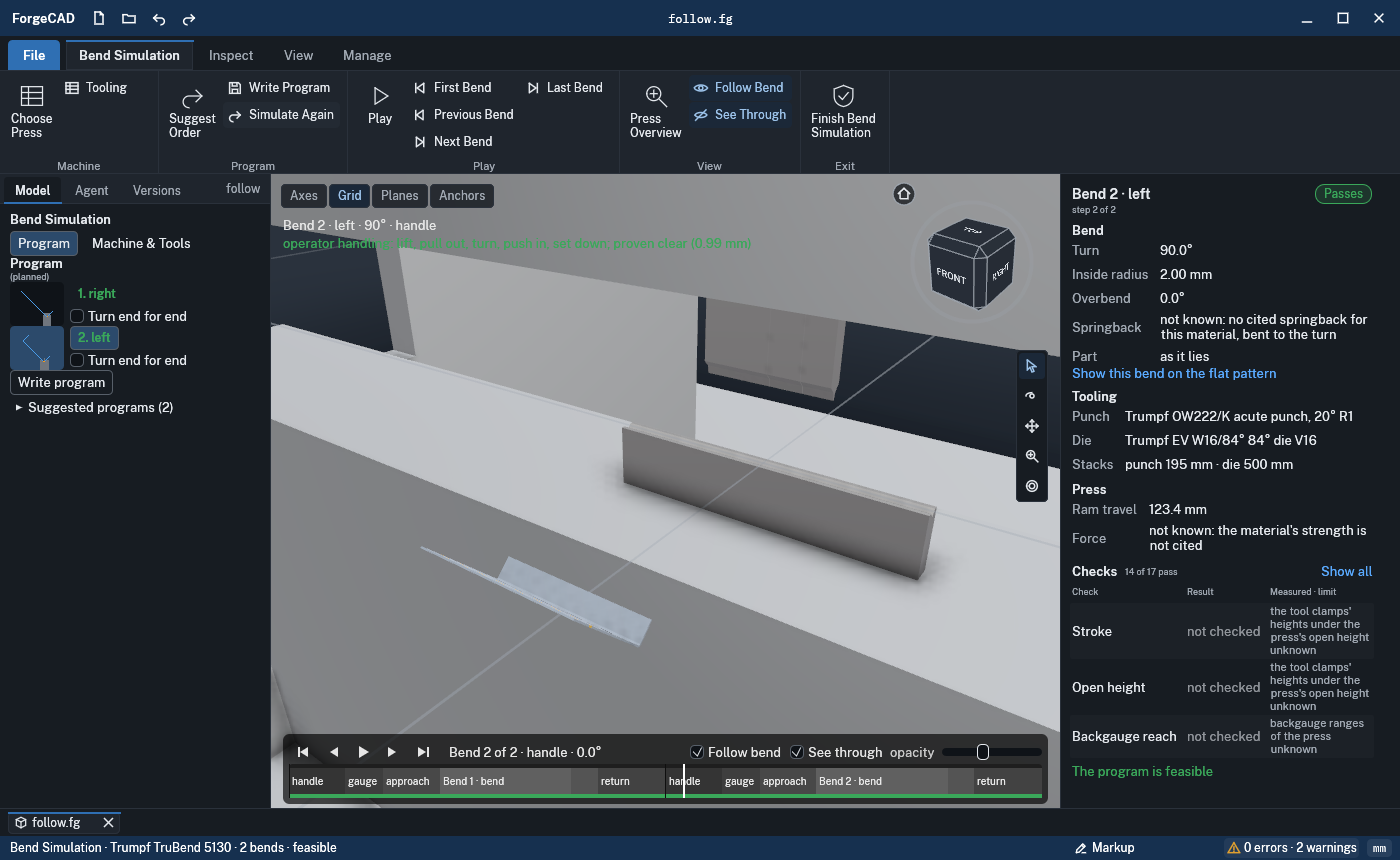
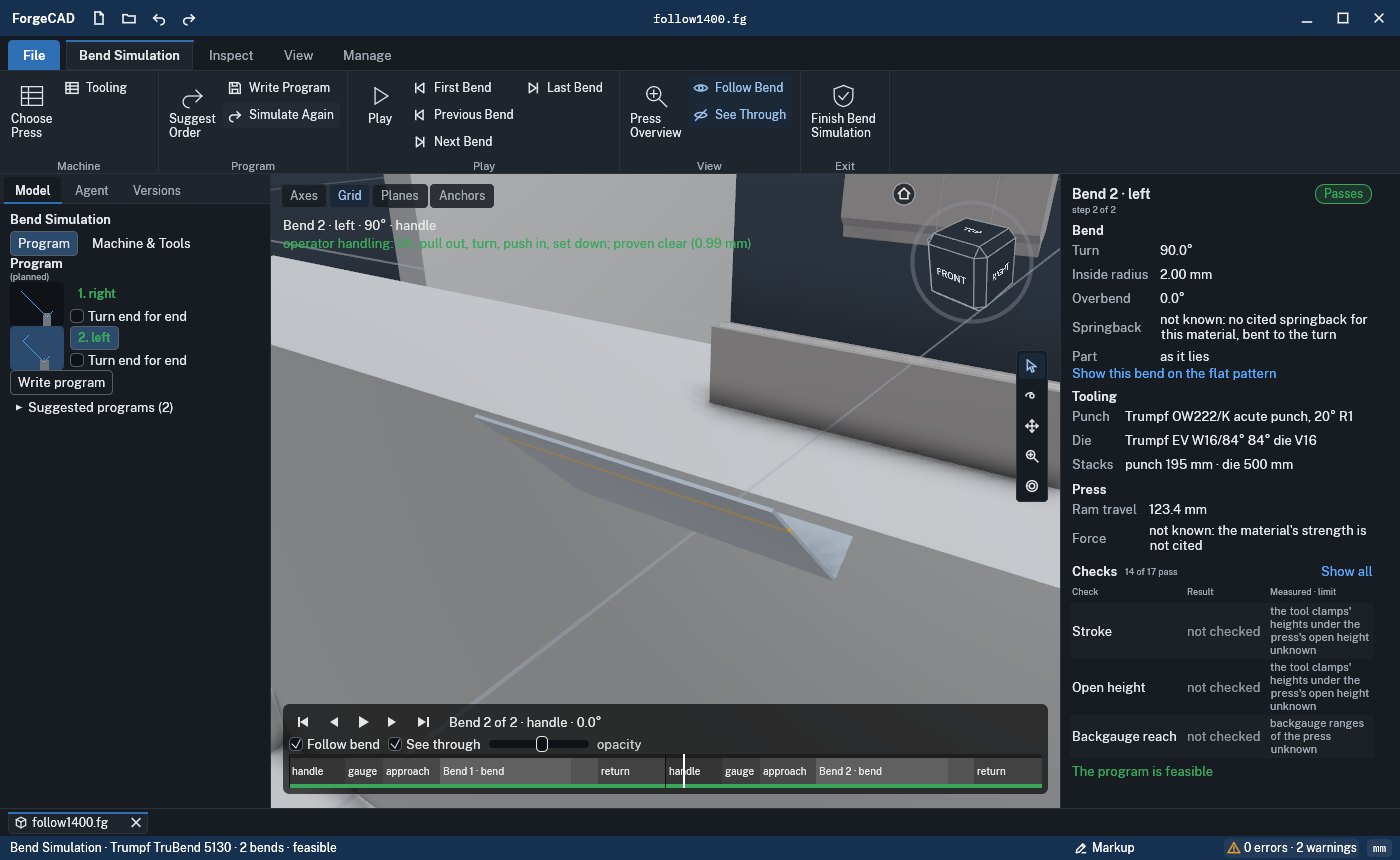
bendsim Follow through the handling frames the part (RENDER-STUDIO, the coordinator: the bed's near edge, not the part, filled the picture): the part where it is, alone, at about 70 % of the view, the eye rising from the working zone's until its lines to the part pass no press part or tool; as the h
Claude-Session: https://claude.ai/code/session_01WJtawvw7eU93rVnY2Eejbc

Changed region(s): [[0.1536, 0.1814, 0.7679, 0.9372], [0.0307, 0.9372, 0.1229, 0.9674], [0.4607, 0.0, 0.5221, 0.0302]]

diff --git a/interface/forge-render/src/gui_bendsim.rs b/interface/forge-render/src/gui_bendsim.rs
@@ -30,6 +30,9 @@ pub struct BendView {
     ours: Option<u64>,
     /// The camera framed on the press once per entry.
     framed: bool,
+    /// Follow was on the part through the operator's handling at the last instant shown: as it
+    /// ends, the eye goes back to the working zone.
+    handled: bool,
     /// The working station's place along the bed when framed: the part moved to another
     /// station, the eye follows it there.
     station: Option<u64>,
@@ -227,6 +230,7 @@ pub fn framing(
     bodies: &[Body],
     envelope: Option<([f32; 3], [f32; 3])>,
     how: Framing,
+    handling: bool,
     size: (u32, u32),
 ) -> Option<(crate::camera::Camera, [f32; 3], [f32; 3])> {
     let (mut lo, mut hi) = match envelope {
@@ -243,6 +247,8 @@ pub fn framing(
     match how {
         // the working zone is the part's, scaled to it (David): the punch's tip and the die's V
         // where they meet it, never the tools' height or the press
+        // through the operator's handling the part is the subject alone: away from the tools
+        Framing::Work if handling => {}
         Framing::Work => {
             let tip = bodies
                 .iter()
@@ -292,12 +298,35 @@ pub fn framing(
     };
     cam.yaw = yaw.to_radians();
     cam.pitch = pitch.to_radians();
-    // the subject's sphere fits the view with a margin of about 15 % (the press: ~70 %)
+    // the subject's sphere fits the view with a margin of about 15 % (the press, and the part
+    // being handled: ~70 %)
     let margin = match how {
-        Framing::Work => 1.15,
-        Framing::Overview => 1.0 / 0.7,
+        Framing::Work if !handling => 1.15,
+        _ => 1.0 / 0.7,
     };
     cam.dist = cam.fit_dist(radius, size.0.max(1), size.1.max(1)) * margin;
+    if handling {
+        // the part handled is seen clear of the press (RENDER-STUDIO, the coordinator: not the
+        // bed's near edge): the eye rises from the working zone's until its lines to the part's
+        // middle and corners pass no press part or tool
+        let mut aims = vec![center];
+        aims.extend((0..8).map(|k| [0, 1, 2].map(|i| if k >> i & 1 == 0 { lo[i] } else { hi[i] })));
+        let blocks: Vec<([f32; 3], [f32; 3])> = bodies
+            .iter()
+            .filter(|x| matches!(x.look, Look::Frame | Look::Gauge | Look::Tool))
+            .filter_map(|x| x.mesh.bounds())
+            .collect();
+        let clear = |c: &crate::camera::Camera| {
+            let eye = c.eye();
+            aims.iter()
+                .all(|&p| blocks.iter().all(|&(a, b)| !hits(eye, p, a, b)))
+        };
+        let mut p = pitch;
+        while p < 75.0 && !clear(&cam) {
+            p += 5.0;
+            cam.pitch = p.to_radians();
+        }
+    }
     Some((cam, lo, hi))
 }
 
@@ -605,17 +634,22 @@ impl Gui {
         };
         let ask = b.frame;
         // with Follow bend, each new step is framed afresh, and through the operator's handling
-        // the eye widens to keep the part in view, settling back on the working zone as it
-        // returns to the tools; otherwise the eye is the user's
+        // the eye keeps on the part (it alone, clear of the press), settling back on the working
+        // zone as it returns to the tools; otherwise the eye is the user's
         let moved = self.bend.framed && b.follow && self.bend.step != Some(step);
         let handling = b.follow && stage_at(b.t).0 == forge_brake::scene::Stage::Handle;
         let first = !self.bend.framed;
+        let back = self.bend.handled && !handling && b.follow;
+        self.bend.handled = handling;
         let mut eye = None;
-        if first || ask.is_some() || moved || (handling && self.bend.framed) {
+        if first || ask.is_some() || moved || back || (handling && self.bend.framed) {
             let how = ask.unwrap_or(Framing::Work);
             // the part's whole motion through the step at the tools, from gauging to the ram's
             // return (kept for the step), and where the part is now
             let envelope = match how {
+                Framing::Work if handling => {
+                    bounds(bodies.iter().filter(|x| x.look.is_sheet()).map(|x| &x.mesh))
+                }
                 Framing::Work => {
                     let kept = self.bend.envelope.filter(|e| e.0 == step).map(|e| (e.1, e.2));
                     let env = kept.or_else(|| {
@@ -645,7 +679,7 @@ impl Gui {
                 }
                 Framing::Overview => None,
             };
-            if let Some((cam, lo, hi)) = framing(&bodies, envelope, how, v.size) {
+            if let Some((cam, lo, hi)) = framing(&bodies, envelope, how, handling, v.size) {
                 self.bend.subject = (how == Framing::Work).then_some((lo, hi));
                 if how == Framing::Work && !handling {
                     // the cube's home is the working zone
@@ -848,6 +882,7 @@ impl Gui {
 
     fn bendsim_put_back(&mut self) {
         self.bend.framed = false;
+        self.bend.handled = false;
         self.bend.cut.clear();
         self.bend.subject = None;
         self.bend.raw.clear();

diff --git a/interface/forge-render/tests/bendsim_env.rs b/interface/forge-render/tests/bendsim_env.rs
@@ -324,17 +324,39 @@ fn the_cube_looks_down_the_bend_and_what_hides_it_is_seen_through() {
 /// is framed on its station.
 #[test]
 fn following_keeps_the_handled_part_in_view() {
-    let Some(mut h) = headless() else { return };
-    enter(&mut h, CHANNEL, "follow", "trumpf-trubend-5130", None);
+    for (w, ht) in [(1400.0, 860.0), (1000.0, 700.0)] {
+        follow_through_the_handling(w, ht);
+    }
+}
+
+fn follow_through_the_handling(w: f32, ht: f32) {
+    let Ok(mut h) = Headless::new((w, ht), 1.0) else {
+        return;
+    };
+    h.step();
+    enter(
+        &mut h,
+        CHANNEL,
+        &format!("follow{w}"),
+        "trumpf-trubend-5130",
+        None,
+    );
     h.gui.shell.sheet.bend_sim.as_mut().unwrap().follow = true;
     let mut seen = Vec::new();
-    for t in [0.0, 0.02, 0.05, 0.08, 0.11, 0.15, 0.5] {
+    let mut handled = 0;
+    // through the handling and back to the tools as a recording goes, a frame an instant, then
+    // the bend itself
+    let instants: Vec<(f64, usize)> = (0..=60)
+        .map(|i| (i as f64 * 0.0025, 1))
+        .chain([(0.5, 30)])
+        .collect();
+    for (t, frames) in instants {
         {
             let b = h.gui.shell.sheet.bend_sim.as_mut().unwrap();
             b.step = 1;
             b.t = t;
         }
-        for _ in 0..3 {
+        for _ in 0..frames {
             h.step();
         }
         // the part's middle, as the view's camera projects it
@@ -353,21 +375,56 @@ fn following_keeps_the_handled_part_in_view() {
         let (cam, size) = h.gui.shell.camera.expect("the view's camera");
         let m = cam.view(size.0, size.1).matrix;
         let mut inside = true;
+        let (mut x0, mut x1, mut y0, mut y1) = (f32::MAX, f32::MIN, f32::MAX, f32::MIN);
         for corner in 0..8 {
             let p = [0, 1, 2].map(|k| if corner >> k & 1 == 0 { lo[k] } else { hi[k] });
             let c = |r: usize| m[r] * p[0] + m[4 + r] * p[1] + m[8 + r] * p[2] + m[12 + r];
             let w = c(3);
             inside &= w > 0.0 && (c(0) / w).abs() <= 1.0 && (c(1) / w).abs() <= 1.0;
+            (x0, x1) = (x0.min(c(0) / w), x1.max(c(0) / w));
+            (y0, y1) = (y0.min(c(1) / w), y1.max(c(1) / w));
         }
         seen.push((t, inside));
-        if t == 0.05 {
+        // through the handling the part is the subject (the coordinator): it spans at least 40 %
+        // of the view one way, and the eye sees its middle past the press's frame
+        if forge_brake::scene::stage_at(t).0 == forge_brake::scene::Stage::Handle {
+            handled += 1;
+            let span = ((x1 - x0) / 2.0).max((y1 - y0) / 2.0);
+            assert!(
+                span >= 0.4,
+                "{w}x{ht} at t = {t}: the part spans {span:.2} of the view"
+            );
+            let eye = cam.eye();
+            let mid = [0, 1, 2].map(|k| 0.5 * (lo[k] + hi[k]));
+            for x in bodies
+                .iter()
+                .filter(|x| x.look == forge_brake::scene::Look::Frame)
+            {
+                let (a, c) = x.mesh.bounds().unwrap();
+                let mut t0 = 0f32;
+                let mut t1 = 1f32;
+                for k in 0..3 {
+                    let d = mid[k] - eye[k];
+                    if d.abs() < 1e-9 {
+                        if eye[k] < a[k] || eye[k] > c[k] {
+                            t1 = -1.0;
+                        }
+                        continue;
+                    }
+                    let (u, v) = ((a[k] - eye[k]) / d, (c[k] - eye[k]) / d);
+                    t0 = t0.max(u.min(v));
+                    t1 = t1.min(u.max(v));
+                }
+                assert!(t0 > t1, "{w}x{ht} at t = {t}: {} stands before the part", x.name);
+            }
+        }
+        if (t - 0.05).abs() < 1e-9 && w == 1400.0 {
             shot(&mut h, "13-following-the-handling");
         }
     }
-    assert!(
-        seen.iter().all(|s| s.1),
-        "the whole part in view at every instant: {seen:?}"
-    );
+    assert!(handled > 10, "{w}x{ht}: {handled} instants of the handling");
+    let out: Vec<_> = seen.iter().filter(|s| !s.1).collect();
+    assert!(out.is_empty(), "{w}x{ht}: the part not wholly in view at {out:?}");
 }
 
 /// No flicker (David): the eye swept round the second bend through the views where the first
